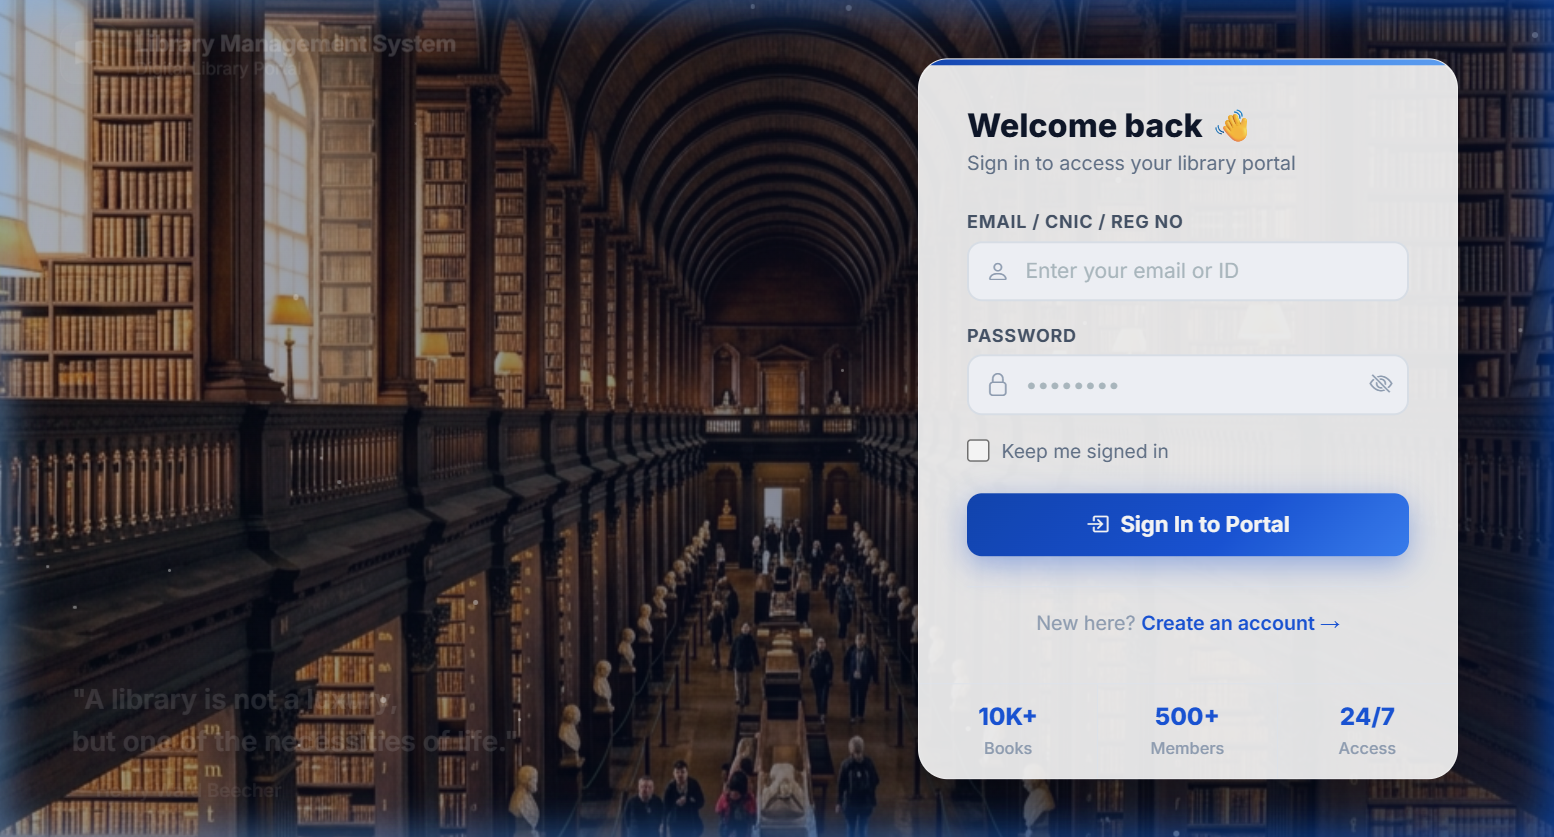
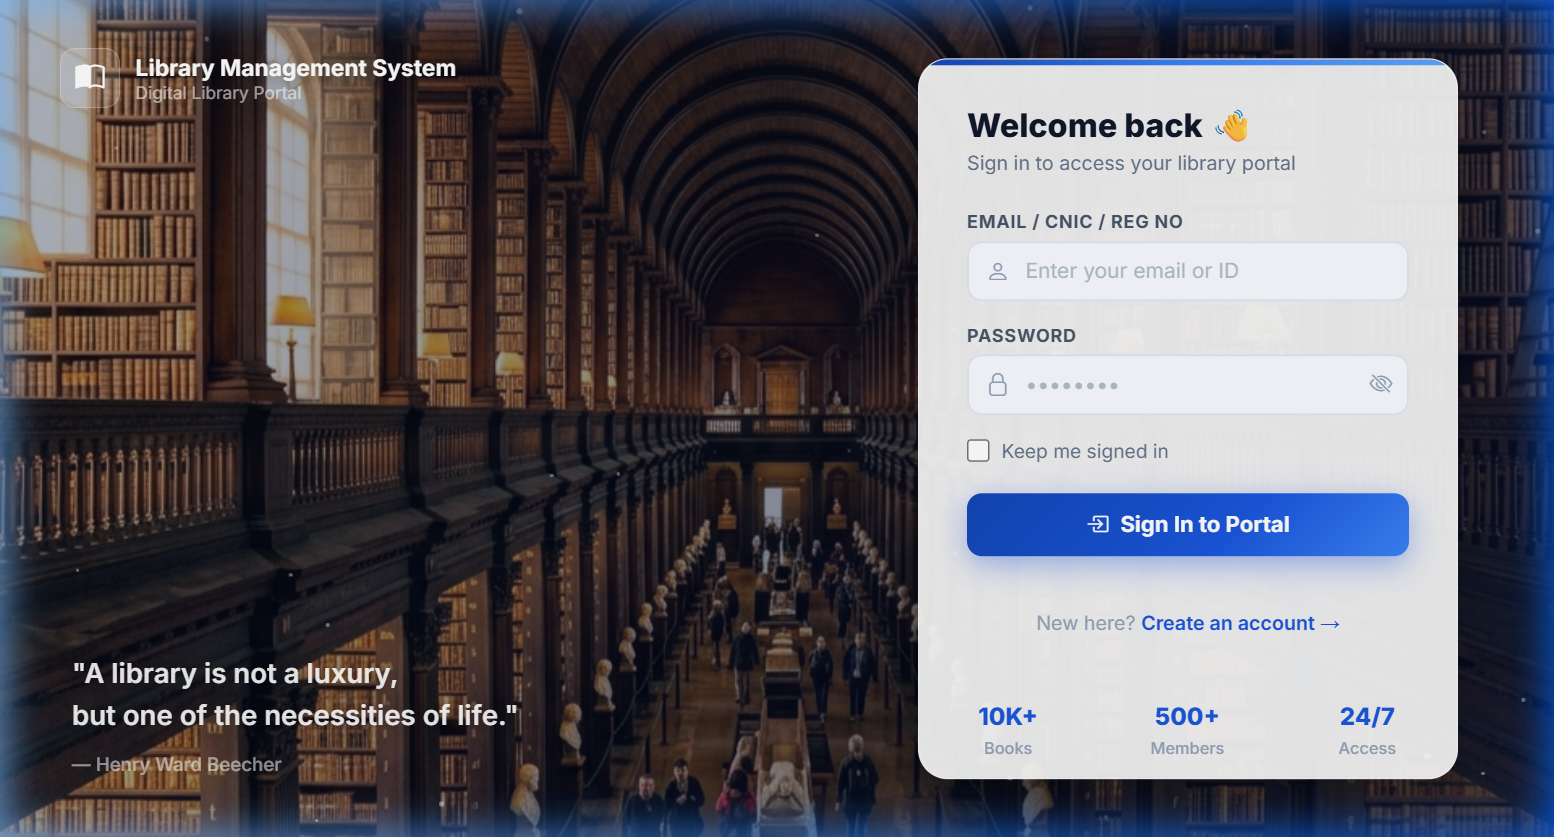
new update in readme file

diff --git a/README.md b/README.md
@@ -29,11 +29,12 @@
 ## ✨ Key Features
 
 - **🔐 Robust RBAC**: Comprehensive Role-Based Access Control for Super Admins, Librarians, Assistant Managers, and Students.
-- **📚 Smart Circulation**: Seamless book issuance and return system with automatic fine calculation.
-- **📊 Live Analytics**: Real-time KPI stats and operations feed for librarians.
-- **🛡 Audit Trails**: Detailed digital audit logs tracking every critical action in the system.
-- **📋 Inventory Control**: Advanced management of book stock, categories, and authors.
-- **💡 Student Portal**: Personal dashboard for students to track borrowings, pay fines, and request new books.
+- **📚 Smart Circulation**: Seamless book issuance and return system with automatic fine calculation and overdue alerts.
+- **🔍 Intelligent ISBN Check**: Real-time AJAX-powered ISBN validation to prevent duplicate entries and ensure data integrity.
+- **📊 Live Analytics**: Real-time KPI stats and operations feed for librarians, showing most borrowed books and top students.
+- **🛡 Digital Audit Trail**: Advanced, filterable audit logs tracking every critical action in the system for full accountability.
+- **📋 Inventory Control**: Professional management of book stock, categories, and authors with stock replenishment tracking.
+- **💡 Student Portal**: Personal dashboard for students to track borrowings, pay fines, and request new books directly.
 
 ---
 
